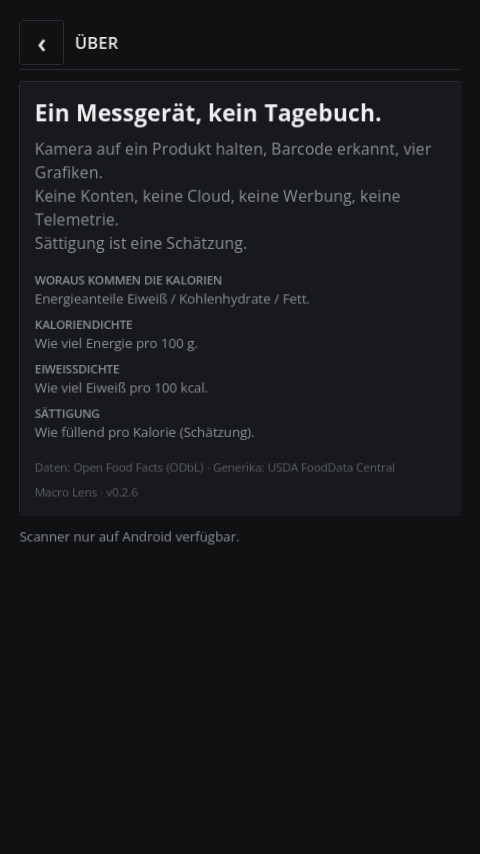
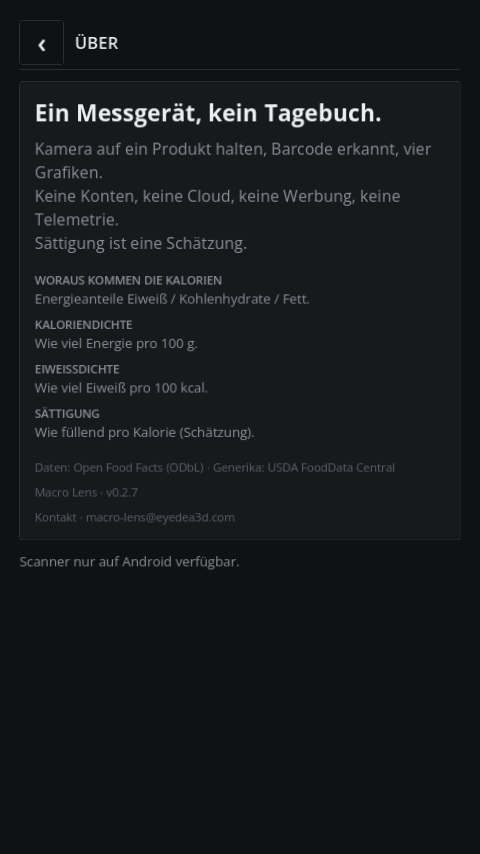
Store details: developer name, dedicated contact email, in-app contact
- listing/runbook/privacy/landing use macro-lens@eyedea3d.com
- About screen shows the contact address
- version 0.2.7 (code 9)

Changed region(s): [[0.0312, 0.5785, 0.5, 0.6698]]

diff --git a/docs/privacy.html b/docs/privacy.html
@@ -67,7 +67,7 @@
   <p>Die App richtet sich nicht speziell an Kinder und erhebt wissentlich keine Daten von Kindern.</p>
 
   <h2>7. Kontakt</h2>
-  <p>Alexander Riedel · <a href="mailto:info@augenrahmen.de">info@augenrahmen.de</a></p>
+  <p>Alexander Riedel · <a href="mailto:macro-lens@eyedea3d.com">macro-lens@eyedea3d.com</a></p>
 
   <hr>
 
@@ -109,7 +109,7 @@
   <p>The app is not directed at children and does not knowingly collect data from children.</p>
 
   <h2>7. Contact</h2>
-  <p>Alexander Riedel · <a href="mailto:info@augenrahmen.de">info@augenrahmen.de</a></p>
+  <p>Alexander Riedel · <a href="mailto:macro-lens@eyedea3d.com">macro-lens@eyedea3d.com</a></p>
 
   <hr>
   <p class="muted">Data: Open Food Facts (ODbL) · USDA FoodData Central (public domain).

diff --git a/docs/index.html b/docs/index.html
@@ -45,7 +45,7 @@
 
   <footer>
     Daten: Open Food Facts (ODbL) · USDA FoodData Central · Barcode-Erkennung on-device (ML Kit).<br>
-    Kontakt: info@augenrahmen.de
+    Kontakt: macro-lens@eyedea3d.com
   </footer>
 </div>
 </body>

diff --git a/store/listing-de.md b/store/listing-de.md
@@ -55,6 +55,6 @@ Hinweis: Die Sättigung ist eine Schätzung. Macro Lens ist ein Alltagshelfer un
 ## Weitere Angaben
 - **App-Kategorie:** Gesundheit & Fitness (Alternative: Essen & Trinken)
 - **Tags:** Ernährung, Gesundheit, Einkaufen, Fitness
-- **Kontakt-E-Mail:** info@augenrahmen.de
+- **Kontakt-E-Mail:** macro-lens@eyedea3d.com
 - **Website (optional):** https://augenrahmen.de
 - **Datenschutzerklärung:** https://3p1cball-code.github.io/macro-lens/privacy.html

diff --git a/store/PLAY_RUNBOOK.md b/store/PLAY_RUNBOOK.md
@@ -99,7 +99,7 @@ GitHub Pages ist eingerichtet und live:
 | App-Symbol 512×512 | `store/icon-512.png` |
 | Feature-Grafik 1024×500 | `store/feature-graphic-1024x500.png` |
 | Telefon-Screenshots (2–8) | `store/screenshots/de/*.png` |
-| Kontakt-E-Mail | `info@augenrahmen.de` |
+| Kontakt-E-Mail | `macro-lens@eyedea3d.com` |
 | Website | `https://augenrahmen.de` (oder die Pages-URL) |
 | Kategorie & Tags | Gesundheit & Fitness · Ernährung, Einkaufen |
 

diff --git a/store/production-request.md b/store/production-request.md
@@ -60,6 +60,6 @@ Ich möchte die App jetzt für alle Nutzer freigeben.
 
 Bei **Einzelpersonen-Konten** werden **Entwicklername und Kontaktdaten im Store öffentlich**
 angezeigt.
-- Entwicklername: `Alexander Riedel` (oder z. B. `augenrahmen`)
-- E-Mail: `info@augenrahmen.de`
+- Entwicklername: `Alexander Riedel` (so gewählt)
+- E-Mail: `macro-lens@eyedea3d.com`
 - Website: `https://augenrahmen.de` (optional)

diff --git a/store/listing-en.md b/store/listing-en.md
@@ -49,5 +49,5 @@ Note: satiety is an estimate. Macro Lens is an everyday helper, not medical advi
 ## Other details
 - **Category:** Health & Fitness (alternative: Food & Drink)
 - **Tags:** nutrition, health, shopping, fitness
-- **Contact email:** info@augenrahmen.de
+- **Contact email:** macro-lens@eyedea3d.com
 - **Privacy policy:** https://3p1cball-code.github.io/macro-lens/privacy.html
